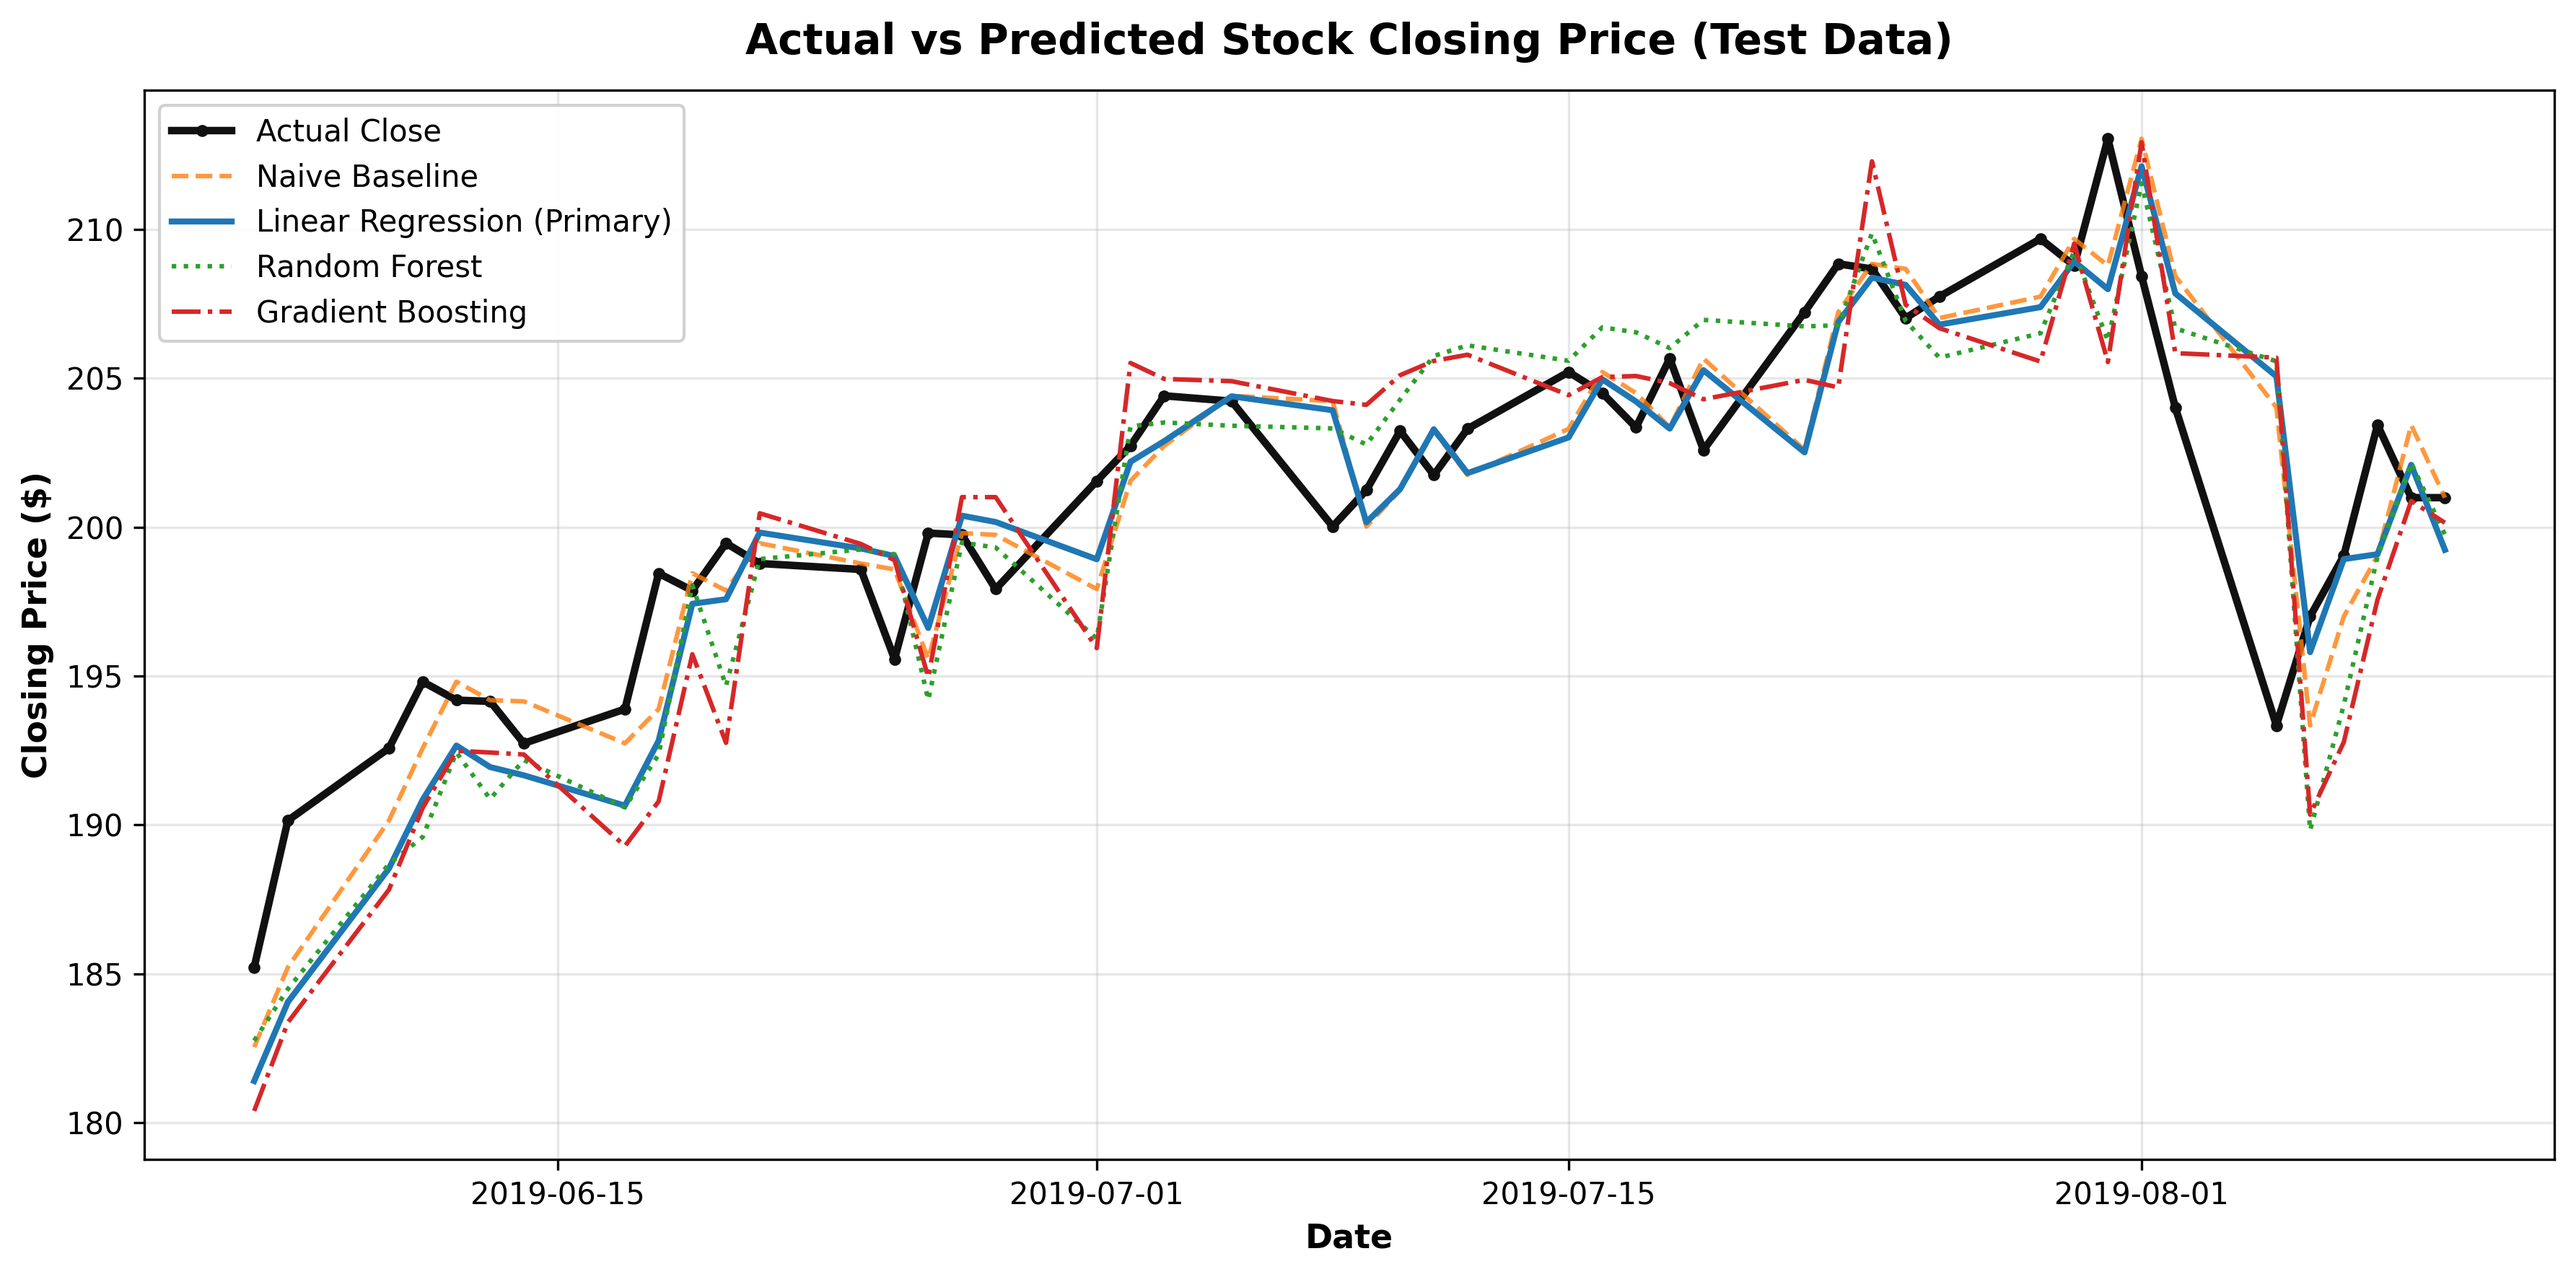
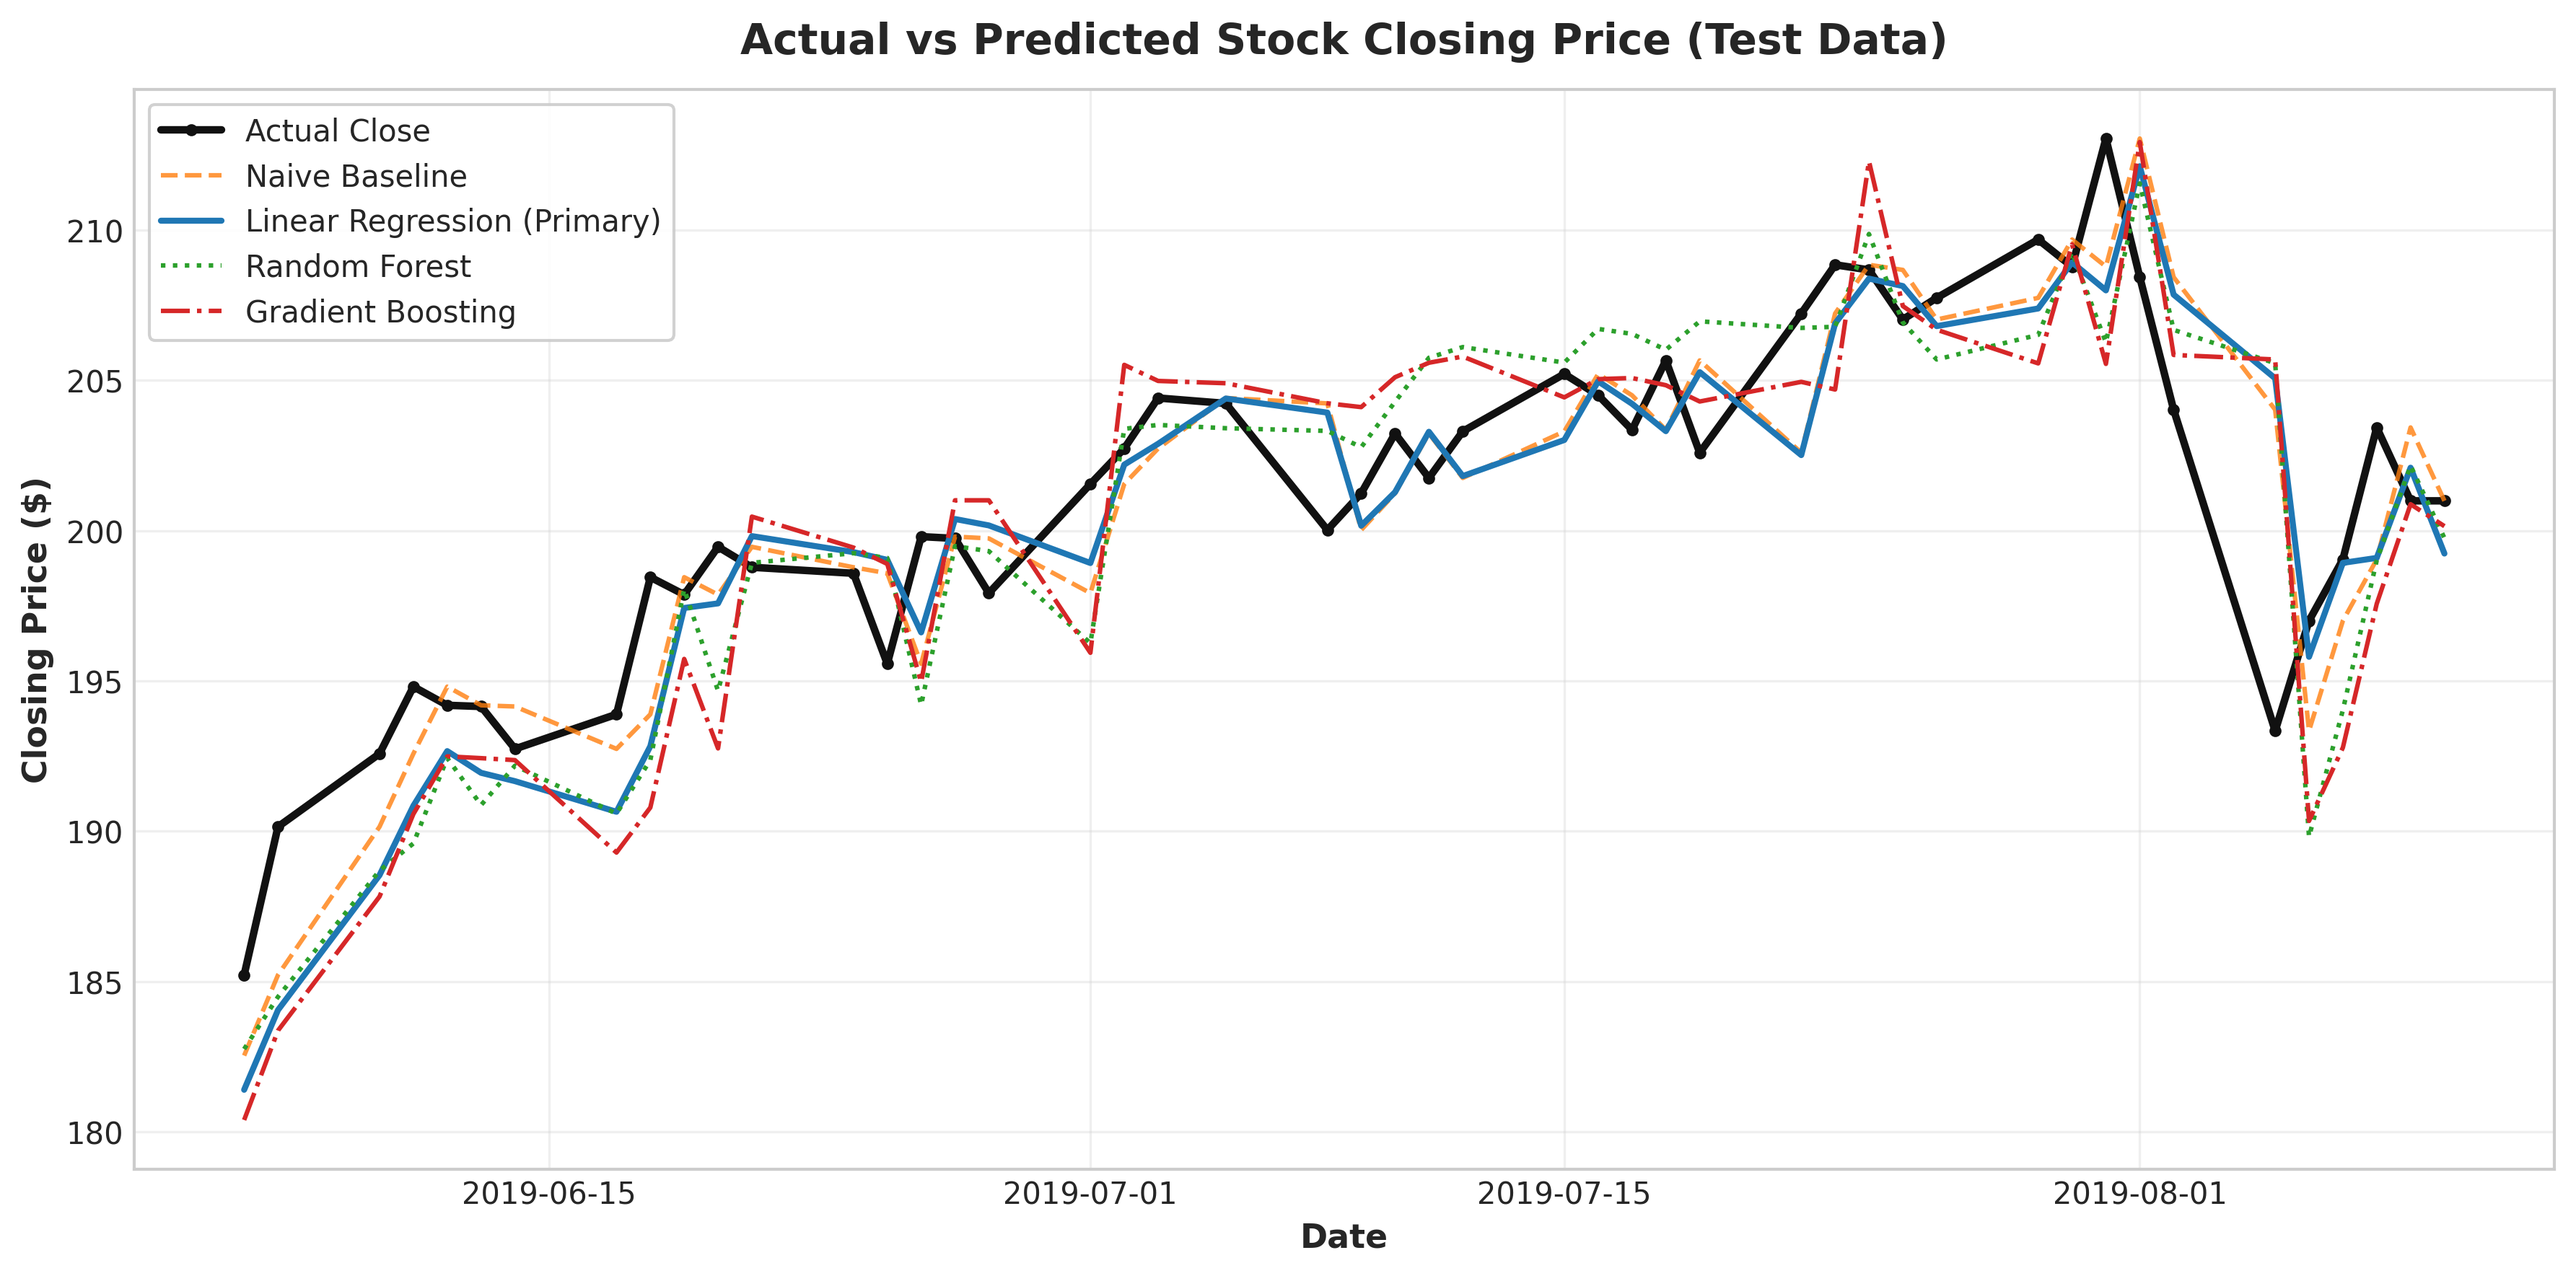
feat: add future stock price forecasting and pipeline script

diff --git a/run.py b/run.py
@@ -1,0 +1,166 @@
+"""
+Master Pipeline Script for Stock Market Time-Series Forecasting
+
+Runs the end-to-end time-series forecasting workflow:
+1. Preprocessing & Datetime Parsing
+2. Missing Record Analysis & Holiday Mapping
+3. Resampling & Visual Exploratory Data Analysis
+4. Moving Averages & Trend Analysis
+5. Seasonal Decomposition
+6. Feature Engineering (Lags, Rolling Stats, Returns)
+7. Chronological Train/Test Split & Leakage-Free Scaling
+8. Naive Baseline & Machine Learning Model Training
+9. Model Evaluation & Comparison Table
+10. Residual Analysis
+11. 10-Day Recursive Future Forecast
+12. Model & Plot Serialization
+"""
+
+import sys
+from pathlib import Path
+import pandas as pd
+
+# Add src to system path
+sys.path.append(str(Path(__file__).resolve().parent / "src"))
+
+from data_preprocessing import load_raw_data, clean_and_sort_data, analyze_missing_records
+from time_series_analysis import resample_data, plot_eda, calculate_moving_averages, decompose_series
+from feature_engineering import build_all_features, prepare_feature_matrix
+from model_training import (
+    chronological_split,
+    train_and_evaluate_models,
+    plot_actual_vs_predicted,
+    plot_residuals,
+    save_best_model
+)
+from forecasting import recursive_future_forecast
+
+
+def run_pipeline():
+    print("=" * 75)
+    print("      STOCK MARKET TIME-SERIES FORECASTING PIPELINE")
+    print("=" * 75)
+
+    root_dir = Path(__file__).resolve().parent
+    data_path = root_dir / "data" / "HistoricalQuotes.csv"
+    output_dir = root_dir / "outputs"
+    models_dir = root_dir / "models"
+
+    output_dir.mkdir(parents=True, exist_ok=True)
+    models_dir.mkdir(parents=True, exist_ok=True)
+
+    # ----------------------------------------------------
+    # 1. Data Preprocessing & Date-Time Processing
+    # ----------------------------------------------------
+    print("\n[Step 1] Loading and Preprocessing Raw Dataset...")
+    raw_df = load_raw_data(data_path)
+    clean_df = clean_and_sort_data(raw_df)
+
+    print(f"  • Total valid records loaded: {len(clean_df)}")
+    print(f"  • Date range: {clean_df['date'].min().strftime('%Y-%m-%d')} to {clean_df['date'].max().strftime('%Y-%m-%d')}")
+    print(f"  • Close price range: ${clean_df['close'].min():.2f} to ${clean_df['close'].max():.2f} (Mean: ${clean_df['close'].mean():.2f})")
+
+    # ----------------------------------------------------
+    # 2. Missing Record Analysis
+    # ----------------------------------------------------
+    print("\n[Step 2] Analyzing Missing Time-Series Records & Market Closures...")
+    missing_info = analyze_missing_records(clean_df)
+    print(f"  • Calendar day span: {missing_info['total_calendar_days']} days")
+    print(f"  • Expected business trading days: {missing_info['expected_business_days']}")
+    print(f"  • Non-trading business days (Holidays): {missing_info['missing_business_days_count']}")
+    print("  • Identified Market Holidays:")
+    for h in missing_info["missing_business_days"]:
+        print(f"      - {h['date']} ({h['day_name']}): {h['reason']}")
+    if missing_info["weekend_records_count"] > 0:
+        print(f"  • Documented Weekend Record: Saturday {missing_info['weekend_records'][0]['date'].strftime('%Y-%m-%d')} (Close: ${missing_info['weekend_records'][0]['close']:.2f})")
+
+    # ----------------------------------------------------
+    # 3. Resampling & Visual Time-Series EDA
+    # ----------------------------------------------------
+    print("\n[Step 3] Resampling and Generating Exploratory Data Analysis Plots...")
+    resampled = resample_data(clean_df)
+    print(f"  • Weekly aggregated records: {len(resampled['weekly'])}")
+    print(f"  • Monthly aggregated records: {len(resampled['monthly'])}")
+
+    p_eda = plot_eda(clean_df, output_dir)
+    print(f"  • Saved EDA plot: [outputs/stock_price.png]({p_eda})")
+
+    df_ma, p_ma = calculate_moving_averages(clean_df, output_dir)
+    print(f"  • Saved Moving Averages plot: [outputs/moving_average.png]({p_ma})")
+
+    decomp, p_dec = decompose_series(clean_df, period=20, output_dir=output_dir)
+    print(f"  • Saved Decomposition plot: [outputs/decomposition.png]({p_dec})")
+
+    # ----------------------------------------------------
+    # 4. Feature Engineering
+    # ----------------------------------------------------
+    print("\n[Step 4] Engineering Historical Lag & Rolling Statistics Features...")
+    feat_df = build_all_features(clean_df)
+    prep_df = prepare_feature_matrix(feat_df)
+    print(f"  • Total complete observation rows after feature creation: {len(prep_df)}")
+
+    # ----------------------------------------------------
+    # 5. Chronological Train/Test Split & Model Training
+    # ----------------------------------------------------
+    print("\n[Step 5] Splitting Data Chronologically (80% Train / 20% Test) & Training Models...")
+    X_tr_s, X_te_s, y_tr, y_te, d_tr, d_te, scaler, feat_cols = chronological_split(prep_df, train_ratio=0.8)
+
+    print(f"  • Training samples: {len(y_tr)} ({str(pd.to_datetime(d_tr[0]))[:10]} to {str(pd.to_datetime(d_tr[-1]))[:10]})")
+    print(f"  • Testing samples:  {len(y_te)} ({str(pd.to_datetime(d_te[0]))[:10]} to {str(pd.to_datetime(d_te[-1]))[:10]})")
+
+    results_df, models_dict, preds_dict = train_and_evaluate_models(X_tr_s, X_te_s, y_tr, y_te, prep_df, train_ratio=0.8)
+
+    print("\n" + "-" * 60)
+    print("               MODEL PERFORMANCE EVALUATION TABLE")
+    print("-" * 60)
+    print(results_df.to_string(index=False))
+    print("-" * 60)
+
+    # ----------------------------------------------------
+    # 6. Evaluation Visualizations & Residual Analysis
+    # ----------------------------------------------------
+    print("\n[Step 6] Plotting Predictions and Residual Diagnostics...")
+    p_act = plot_actual_vs_predicted(y_te, preds_dict, d_te, output_dir)
+    print(f"  • Saved Actual vs Predicted plot: [outputs/actual_vs_predicted.png]({p_act})")
+
+    primary_model_name = "Linear Regression"
+    p_res = plot_residuals(y_te, preds_dict[primary_model_name], d_te, primary_model_name, output_dir)
+    print(f"  • Saved Residual Analysis plot: [outputs/residuals.png]({p_res})")
+
+    model_path = save_best_model(models_dict[primary_model_name], scaler, feat_cols, models_dir / "stock_forecasting_model.pkl")
+    print(f"  • Saved Best Model Artifact: [models/stock_forecasting_model.pkl]({model_path})")
+
+    # ----------------------------------------------------
+    # 7. Future 10-Trading-Day Forecast
+    # ----------------------------------------------------
+    print("\n[Step 7] Generating Recursive 10-Trading-Day Future Forecast...")
+    forecast_df, p_fc = recursive_future_forecast(
+        model=models_dict[primary_model_name],
+        scaler=scaler,
+        feature_cols=feat_cols,
+        df_clean=clean_df,
+        num_future_days=10,
+        output_dir=output_dir
+    )
+
+    print("\n" + "-" * 40)
+    print("   10-DAY RECURSIVE FUTURE FORECAST TABLE")
+    print("-" * 40)
+    print(forecast_df.to_string(index=False))
+    print("-" * 40)
+    print(f"  • Saved Future Forecast plot: [outputs/future_forecast.png]({p_fc})")
+
+    # ----------------------------------------------------
+    # Financial Disclaimer
+    # ----------------------------------------------------
+    print("\n" + "=" * 75)
+    print(" IMPORTANT FINANCIAL DISCLAIMER:")
+    print(" This project is an educational time-series forecasting system based on")
+    print(" historical market data. Predictions are statistical estimates and do")
+    print(" NOT constitute financial advice, investment strategy, or guarantees")
+    print(" of future stock market performance.")
+    print("=" * 75)
+
+
+if __name__ == "__main__":
+    run_pipeline()

diff --git a/src/forecasting.py b/src/forecasting.py
@@ -1,0 +1,153 @@
+"""
+Future Forecasting Module
+
+Implements recursive multi-step forecasting for future trading days (excluding weekends)
+using trained model artifacts and historical context.
+"""
+
+from pathlib import Path
+import pandas as pd
+import numpy as np
+import matplotlib.pyplot as plt
+import joblib
+
+from feature_engineering import build_all_features, prepare_feature_matrix
+
+
+def recursive_future_forecast(
+    model: object,
+    scaler: object,
+    feature_cols: list[str],
+    df_clean: pd.DataFrame,
+    num_future_days: int = 10,
+    output_dir: str | Path = None
+) -> tuple[pd.DataFrame, str]:
+    """
+    Perform recursive multi-step forecasting for future business trading days.
+
+    Parameters:
+    -----------
+    model : object
+        Trained model instance.
+    scaler : object
+        Fitted StandardScaler.
+    feature_cols : list[str]
+        Ordered list of feature names.
+    df_clean : pd.DataFrame
+        Cleaned historical dataframe up to the latest known record.
+    num_future_days : int
+        Number of future trading days to forecast (default 10).
+    output_dir : str or Path
+        Directory to save forecast chart.
+
+    Returns:
+    --------
+    tuple
+        (forecast_df, chart_save_path)
+    """
+    # Working copy of historical data
+    history_df = df_clean.copy()
+    last_date = history_df["date"].max()
+
+    # Generate future business days (Monday through Friday only)
+    future_dates = pd.bdate_range(start=last_date + pd.Timedelta(days=1), periods=num_future_days)
+
+    forecast_records = []
+
+    for future_date in future_dates:
+        # Build features for current history
+        feat_df = build_all_features(history_df)
+        prep_df = prepare_feature_matrix(feat_df)
+
+        # Get latest feature row (corresponds to predicting next step)
+        latest_features = prep_df.iloc[-1][feature_cols].values.reshape(1, -1)
+
+        # Scale features using training scaler
+        latest_scaled = scaler.transform(latest_features)
+
+        # Predict next closing price
+        pred_close = model.predict(latest_scaled)[0]
+
+        # Record prediction
+        forecast_records.append({
+            "date": future_date,
+            "predicted_close": round(float(pred_close), 2)
+        })
+
+        # Append prediction into history to allow recursive lag calculation
+        new_row = pd.DataFrame([{
+            "date": future_date,
+            "close": pred_close,
+            "volume": history_df["volume"].iloc[-1], # placeholder
+            "open": pred_close,
+            "high": pred_close,
+            "low": pred_close
+        }])
+        history_df = pd.concat([history_df, new_row], ignore_index=True)
+
+    forecast_df = pd.DataFrame(forecast_records)
+
+    save_path = ""
+    if output_dir:
+        output_dir = Path(output_dir)
+        output_dir.mkdir(parents=True, exist_ok=True)
+        save_path = output_dir / "future_forecast.png"
+
+        plt.figure(figsize=(12, 6))
+
+        # Plot last 30 historical trading days
+        recent_hist = df_clean.tail(30)
+        plt.plot(recent_hist["date"], recent_hist["close"], label="Historical Close (Last 30 Days)", color="#1f77b4", linewidth=2.0, marker="o", markersize=3)
+
+        # Plot future predictions
+        plt.plot(forecast_df["date"], forecast_df["predicted_close"], label=f"Future {num_future_days}-Day Forecast", color="#d62728", linewidth=2.2, linestyle="--", marker="s", markersize=5)
+
+        # Annotate forecast values
+        for i, row in forecast_df.iterrows():
+            plt.annotate(
+                f"${row['predicted_close']:.2f}",
+                (row["date"], row["predicted_close"]),
+                textcoords="offset points",
+                xytext=(0, 8),
+                ha="center",
+                fontsize=8,
+                color="#b2182b",
+                fontweight="bold"
+            )
+
+        plt.title(f"Stock Price {num_future_days}-Trading-Day Recursive Future Forecast", fontsize=14, fontweight="bold", pad=12)
+        plt.xlabel("Date", fontsize=11, fontweight="bold")
+        plt.ylabel("Predicted Close Price ($)", fontsize=11, fontweight="bold")
+        plt.legend(loc="upper left", frameon=True, facecolor="white", framealpha=0.9)
+        plt.grid(True, alpha=0.3)
+
+        plt.tight_layout()
+        plt.savefig(save_path, dpi=300, bbox_inches="tight")
+        plt.close()
+        save_path = str(save_path)
+
+    return forecast_df, save_path
+
+
+if __name__ == "__main__":
+    from data_preprocessing import load_raw_data, clean_and_sort_data
+
+    root_dir = Path(__file__).resolve().parent.parent
+    raw_df = load_raw_data(root_dir / "data" / "HistoricalQuotes.csv")
+    clean_df = clean_and_sort_data(raw_df)
+
+    # Load saved model artifact
+    model_artifact = joblib.load(root_dir / "models" / "stock_forecasting_model.pkl")
+
+    forecast_df, p_fc = recursive_future_forecast(
+        model=model_artifact["model"],
+        scaler=model_artifact["scaler"],
+        feature_cols=model_artifact["feature_names"],
+        df_clean=clean_df,
+        num_future_days=10,
+        output_dir=root_dir / "outputs"
+    )
+
+    print("--- 10-Day Future Forecast Table ---")
+    print(forecast_df.to_string(index=False))
+    print(f"Future forecast chart saved: {p_fc}")
